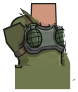
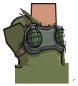
Tanko rig: the shirt painted under the belt stays inside the belt band (no flat band over the thighs' tops)

diff --git a/art_source/characters/tanko/rig/make_rig.py b/art_source/characters/tanko/rig/make_rig.py
@@ -127,7 +127,7 @@ def ellipse(cx, cy, rx, ry, n=48, a0=0.0, a1=360.0, rot=0.0):
 UNDER = {
     "torso": [
         # the shirt under the belt
-        ([(590, 440), (700, 440), (700, 512), (590, 512)], SHIRT, False),
+        ([(590, 460), (697, 460), (697, 501), (590, 501)], SHIRT, False),
         # the neck under the chin strap
         ([(622, 340), (672, 340), (674, 400), (620, 400)], NECK, True),
         # the near shoulder under the shoulder pad and the collar under the strap (a round, outlined
